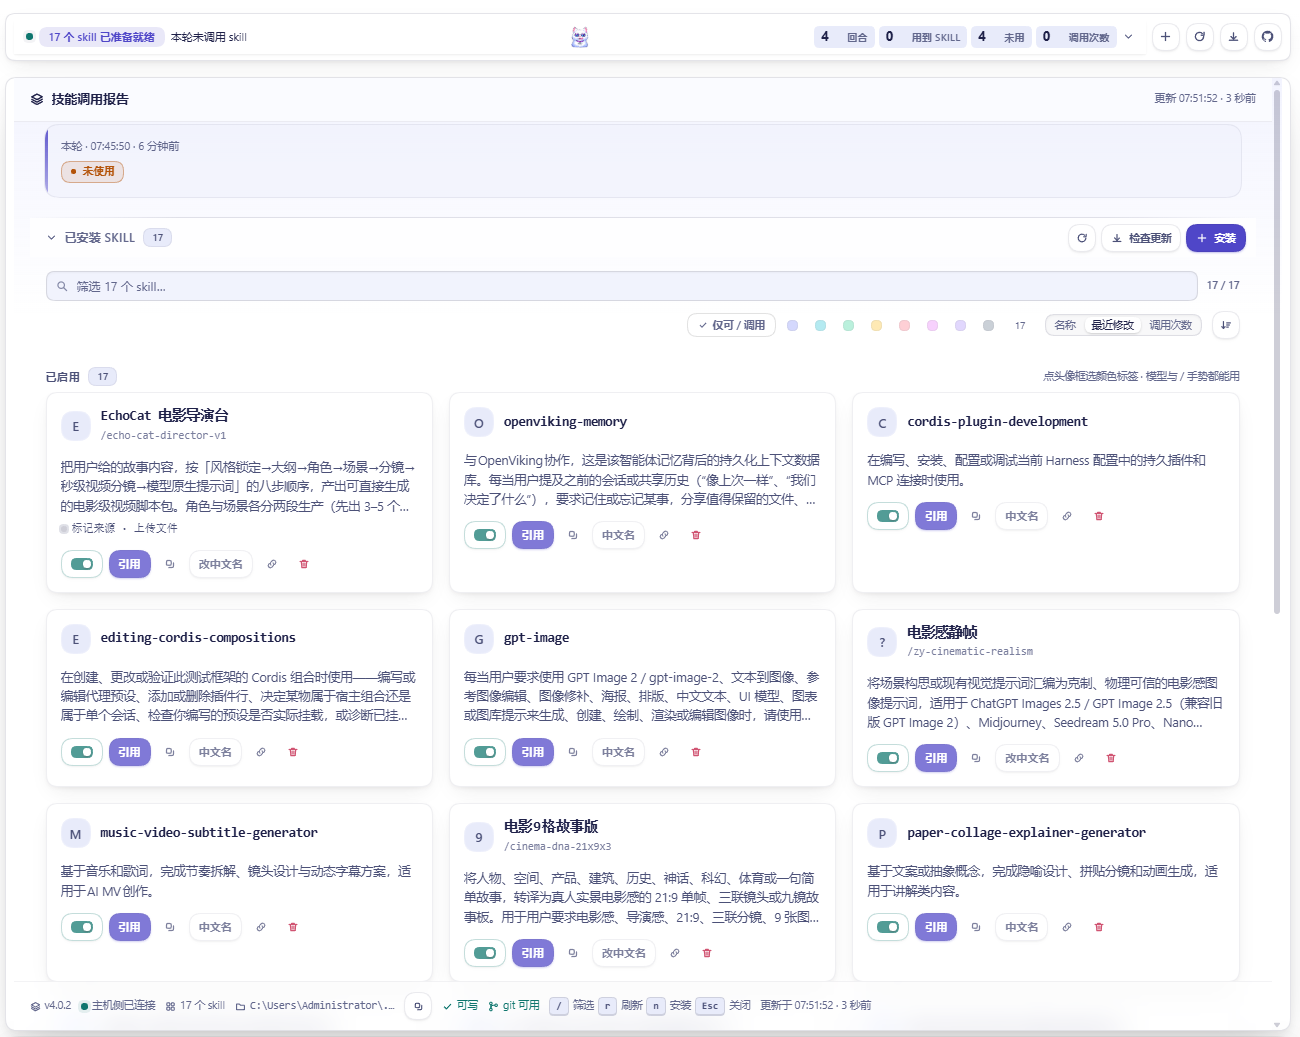
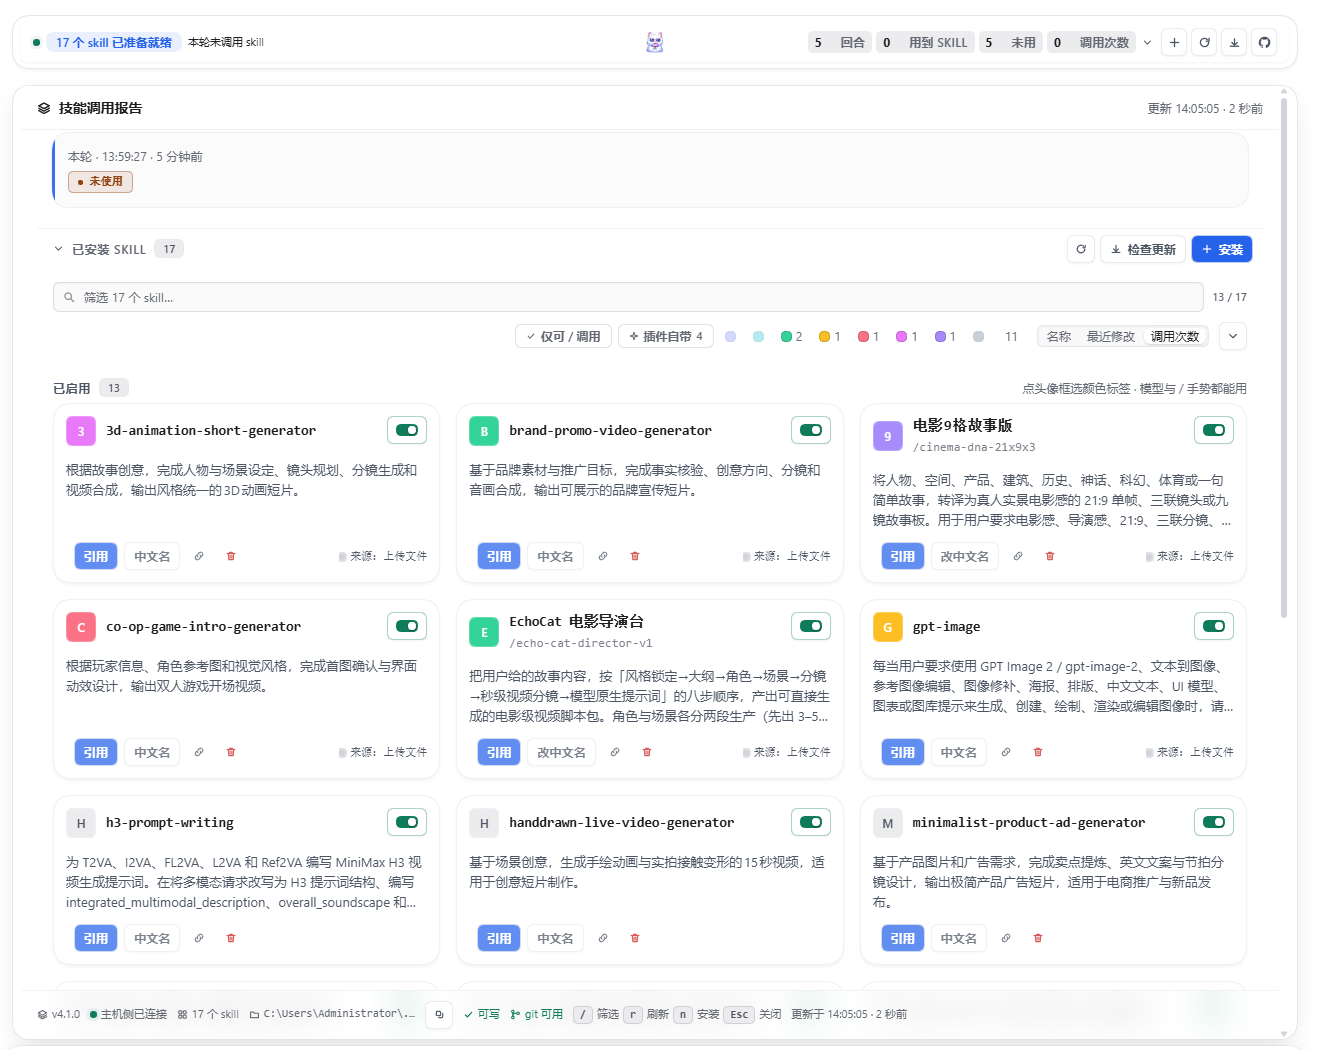
release 4.2.0: a modern neutral tool panel
A design-system pass, not a tweak: the palette, the radius scale, the shadow scale, the type scale and the spacing tiers
all moved together, because a neutral canvas beside the old periwinkle shadows and pill buttons would have been worse
than either.

THE PALETTE is the neutral one from the brief — canvas #f5f5f7, card #ffffff, ink #1d1d1f, secondary #6b7280, hairline
#e5e7eb — with ONE accent (#2563eb) and no second hue: the display-aqua, display-ice and display-lilac tokens are gone.

FOUR OF THE BRIEF'S VALUES FAIL AS TEXT and were solved rather than accepted: the tertiary grey #9ca3af (2.54:1 on
white), success #059669, warn #d97706 (2.80:1, and it is this plugin's core signal) and danger #dc2626. Solving for the
background that would let the tertiary grey pass gives a NEGATIVE luminance — no light surface can satisfy it — so the
ink moved, one step, keeping each hue. The weak tints keep the original values, since a tinted background has no
contrast obligation.

THE RADIUS SCALE now matches the host composer card the owner named as the reference: read off the DSH shell as
`.Ogvy6G_card{border-radius:22px}`, and the host's own scale has the same shape as ours — 22 for surfaces, 8 for the
controls inside them, 999 for genuinely round things. So 22 for the panel, the strip, cards, the hero, toasts and the
sheet; 8 for buttons, fields, tabs, avatars and chips. NOT 22 everywhere: `.sr-btn--sm` is 22px tall, so a 22px corner is
[…]

diff --git a/lib/client.js b/lib/client.js
@@ -1,4 +1,4 @@
-// echocat-skill-panel@4.1.0 \u2014 generated by tools/build-client.mjs. Do not edit.
+// echocat-skill-panel@4.2.0 \u2014 generated by tools/build-client.mjs. Do not edit.
 //
 // Lazy CommonJS bundle for the DSH client module system: loading this file only
 // registers the factory; the module bodies run when the factory is materialized.
@@ -40,7 +40,7 @@ window.__ModuleLoader__.load({
 				 * module table, resolved against the host's frozen platform table. So this copy is a
 				 * necessity \u2014 and therefore the one that silently goes stale. Bump it with the others.
 				 */
-				const VERSION = '4.1.0'
+				const VERSION = '4.2.0'
 
 				/**
 				 * Every element that can be the ROOT of one of this plugin's surfaces: the centre
@@ -2061,7 +2061,7 @@ window.__ModuleLoader__.load({
 				  D('release-dot', 'btn', '.sr-release-dot', { position: 'absolute', top: 2, right: 2, width: 6, height: 6, borderRadius: 999, background: 'var(--sr-accent)', boxShadow: '0 0 0 1.5px var(--sr-card)' },
 				    'a 6px accent dot on the check button, ringed in the card colour so it reads on any surface'),
 				  D('release-note', 'frame', '.sr-release-note', { fontSize: 12, fontWeight: 600, letterSpacing: '.02em', color: 'var(--sr-accent)', whiteSpace: 'nowrap' },
-				    'the header has room to SAY "\u53ef\u66f4\u65b0 4.1.0" instead of making the user hover to find out'),
+				    'the header has room to SAY "\u53ef\u66f4\u65b0 4.2.0" instead of making the user hover to find out'),
 				  D('release-note-ok', 'frame', '.sr-release-note--ok', { color: 'var(--sr-ok)' },
 				    '"\u5df2\u662f\u6700\u65b0" is good news and wears the success colour, not the accent'),
 

diff --git a/src/client/design.js b/src/client/design.js
@@ -704,7 +704,7 @@ const DESIGN = Object.freeze([
   D('release-dot', 'btn', '.sr-release-dot', { position: 'absolute', top: 2, right: 2, width: 6, height: 6, borderRadius: 999, background: 'var(--sr-accent)', boxShadow: '0 0 0 1.5px var(--sr-card)' },
     'a 6px accent dot on the check button, ringed in the card colour so it reads on any surface'),
   D('release-note', 'frame', '.sr-release-note', { fontSize: 12, fontWeight: 600, letterSpacing: '.02em', color: 'var(--sr-accent)', whiteSpace: 'nowrap' },
-    'the header has room to SAY "可更新 4.1.0" instead of making the user hover to find out'),
+    'the header has room to SAY "可更新 4.2.0" instead of making the user hover to find out'),
   D('release-note-ok', 'frame', '.sr-release-note--ok', { color: 'var(--sr-ok)' },
     '"已是最新" is good news and wears the success colour, not the accent'),
 

diff --git a/src/release.js b/src/release.js
@@ -163,7 +163,7 @@ export function createReleaseChecker({ version = VERSION, fetchImpl, allowNetwor
       const rawTag = github.ok === true && typeof github.body?.tag_name === 'string' ? github.body.tag_name : ''
       // Normalised for COMPARISON and for display: `compareVersions` tolerates a leading
       // `v`, but the panel shows this string next to the running version, and
-      // "有新版本 v4.1.0（当前 4.0.0）" mixes two conventions in one sentence.
+      // "有新版本 v4.2.0（当前 4.0.0）" mixes two conventions in one sentence.
       const tagVersion = rawTag.replace(/^v/iu, '')
       // Prefer whichever source reports the HIGHER version: a release can be tagged before
       // the package is published, and the user wants to know about the newer of the two.

diff --git a/src/client/theme.js b/src/client/theme.js
@@ -26,7 +26,7 @@ const TAG_ID = 'echocat-skill-panel/panel.css'
  * module table, resolved against the host's frozen platform table. So this copy is a
  * necessity — and therefore the one that silently goes stale. Bump it with the others.
  */
-const VERSION = '4.1.0'
+const VERSION = '4.2.0'
 
 /**
  * Every element that can be the ROOT of one of this plugin's surfaces: the centre

diff --git a/src/version.js b/src/version.js
@@ -13,4 +13,4 @@
  * (`package.json`, this file, `src/client/theme.js`) — the client copy was unchecked until
  * 4.0.1 and had already gone stale once by the time anyone looked.
  */
-export const VERSION = '4.1.0'
+export const VERSION = '4.2.0'

diff --git a/RELEASE_NOTES_4.2.0.md b/RELEASE_NOTES_4.2.0.md
@@ -1,0 +1,45 @@
+## v4.2.0 —— 整个界面重做：一套现代、中性的工具面板
+
+这是一次**设计系统级的重做**，不是调色。配色、圆角、阴影、字阶、间距一起换 —— 因为它们互相依赖：一张中性灰的卡片配上旧的紫色阴影和胶囊按钮，会比不改更糟。
+
+### 升级要注意
+
+- **没有任何破坏性改动。** 包名、路由、存储的 key、`meta.yaml` 的写法、已装 skill 的数据全部不变，直接覆盖安装即可。
+- **host 半侧（服务端那一半）有改动，需要重启 DSH**，不是刷新页面。
+- 已装的 skill 不受影响；你自己标的颜色标签、停用状态、来源记录都保留。
+
+### 界面
+
+- **中性工具色板。** 之前的 Vapor Chrome（长春花紫 + 水蓝）换成一份中性的灰 + **单一主色**：底色 `#F5F5F7`、卡片纯白、正文 `#1D1D1F`、说明文字 `#6B7280`、发丝线 `#E5E7EB`、主色 `#2563EB`。aqua / ice / lilac 三个装饰色**删掉了** —— 全局只有一种主色，用在主操作和选中态。
+- **四个色值是算过之后改的**，不是照抄：三级灰、成功、警告、危险四个色在浅色底上**当文字用的时候过不了 AA**（警告色只有 **2.80:1**，而它正是"本轮没用 skill"这个核心信号）。反解"什么底色能让它过"得到的是**负数亮度** —— 也就是**任何浅色底都不可能**，所以只能让墨色让步。每个都保留原色相、只降一档。
+- **圆角和宿主的输入框对齐。** 从 DSH 里读出来的值是 **22px**（`.Ogvy6G_card`），而且宿主自己的刻度和我们结构一样：**表面 22 / 表面内部的控件 8 / 真正该圆的用 999**。所以 22px 给了面板、横栏、卡片、弹窗；按钮、输入框、标签页保持 8。**没有无脑全 22** —— `.sr-btn--sm` 只有 22px 高，22px 圆角就是半圆，那正是之前要求去掉的胶囊。
+- **深色主题重做，对比度是算出来的。** 每个墨色在每个深色表面都过 AA（最差 4.85:1）。两个反直觉的结果：三级灰必须**调亮**（原本在卡片上只有 4.27:1），而主色按钮上的字必须是**深色**（白色在上面只有 2.77:1）。
+- **去掉了老旧感。** 阴影从每级**两层叠影**改成**一层浅影**，主色按钮的**彩色光晕删掉**，磨砂头部后面三个装饰性径向渐变删掉，粗边框统一成 1px，字阶从**十六种收敛到四种**（14 标题 / 13 正文 / 12 界面 / 11 说明）。
+- **卡片底部重新排版**：调用次数在左、按钮左对齐紧跟其后、来源在右下角并和按钮同一行对齐。
+- **鼠标悬停在卡片上会轻微放大**（2%），其他卡片不动。
+
+### 修掉的 bug（都是这一轮定位的）
+
+- **颜色标签点了没反应。** 根因不在颜色功能里：`applySkills` 把写入响应里的 `skills` 数组**整个替换**掉，而那个数组来自磁盘扫描、**不带 provenance** —— 所以每次写操作（改色、开关、改名、删除）都会把**所有** skill 的颜色和来源记录抹掉，最多 5 秒后才回来。现在改成**合并**：响应里有的字段生效，没有的保留。
+- **插件自带的 skill 混在你的列表里。** 它们是 DSH 把插件的 skill 和你的 skill 合并上报的，现在**默认隐藏**，右上角有开关可以显示，并且卡片上会标出它是哪来的。删除按钮不再对它们显示 —— 它们本来就删不掉。
+- **"插件自带"开关点一下就消失。** 判断显示与否用的是"被过滤掉的数量"，而那个数在你点开的瞬间就变成 0 —— 于是开关把自己删了。改成用**总数**判断。
+- **弹窗不会自己消失。** 错误提示以前是**故意不自动关闭**的（理由是要留时间看清 host 的报错）。实际结果是它变成常驻物、每次都要手动清。现在**所有提示 1 秒后自动消失**，✕ 仍在。
+- **横栏的四个图标移进了圆角框里**，包括为此把横栏从 `<button>` 改成 `role="button"` 的 `div` —— HTML 不允许 button 里套 button。
+- **悬停缩放一开始是完全不生效的**，前后有四个不同原因（第三个文件里硬编码的 `translateY` 按顺序赢了 / 缩小规则的特异性比放大规则高 / **入场动画的关键帧写了 `transform`，而动画的优先级凌驾于整个级联之上**）。现在有一条**真实浏览器**的门禁：用 CDP 真的移动鼠标，读 `getComputedStyle().transform`。
+
+### 安装
+
+```powershell
+dsh plugin --profile web add echocat-skill-panel     # 走 dsh 的插件安装
+npm install echocat-skill-panel                      # 或直接装进 profile 目录
+```
+
+装完**重启** DSH Desktop Beta。
+
+### 这一版新增的验证手段
+
+三条断言换来三个真实 bug，所以补了三种以前没有的检查：
+
+- **真实浏览器门禁**（`tools/hover-test.mjs`）：真的移动鼠标、读浏览器算出来的 transform 和圆角。之前所有关于悬停的断言都是**读 CSS 文本** —— 而这条功能坏过四次，每一次都对读文本的断言完全隐形。
+- **圆角审计**（`tools/radius-audit.mjs`）：问浏览器每个元素的实际圆角。这个问题**读任何一个文件都答不出来**，因为答案取决于三层样式里哪一层点了它的名。
+- **包身份检查**（`tools/check-identity.mjs`）：包名同时是目录名、Loader 条目名、vendor 目录名和客户端 bundle id，四处必须一致 —— 改名时漏一处就会静默失效。

diff --git a/安装说明.md b/安装说明.md
@@ -2,7 +2,7 @@
 
 给**另一台机器 / 另一位用户**用。整个文件夹就是插件本体，拷走即可。
 
-- 包名：`echocat-skill-panel`　版本：`4.1.0`（**全小写**，npm 风格；这个名字同时是 Loader 条目名、vendor 目录名和客户端 bundle id，**五处必须一致** —— 见第五节）
+- 包名：`echocat-skill-panel`　版本：`4.2.0`（**全小写**，npm 风格；这个名字同时是 Loader 条目名、vendor 目录名和客户端 bundle id，**五处必须一致** —— 见第五节）
 - 面向：DSH Desktop Beta，实测 `2.0.11-beta.1` / 内核 `@deepseek-ai/*` `0.1.6-alpha.1` / cordis 4
 - 自带已构建的 `lib/client.js`，**目标机器不需要任何构建步骤**
 

diff --git a/README.md b/README.md
@@ -1,6 +1,6 @@
 # echocat-skill-panel
 
-**v4.1.0** · DSH Desktop Beta 的 cordis 插件：统计每轮对话用到了哪些 skill，并让你**在应用里直接装卸、更新它们**。
+**v4.2.0** · DSH Desktop Beta 的 cordis 插件：统计每轮对话用到了哪些 skill，并让你**在应用里直接装卸、更新它们**。
 
 判定不依赖模型自觉 —— 插件从会话事件流推导本轮调了哪些 skill（模型自动、你手动 `/name`、或一个都没用），模型忘了说也照样报。
 
